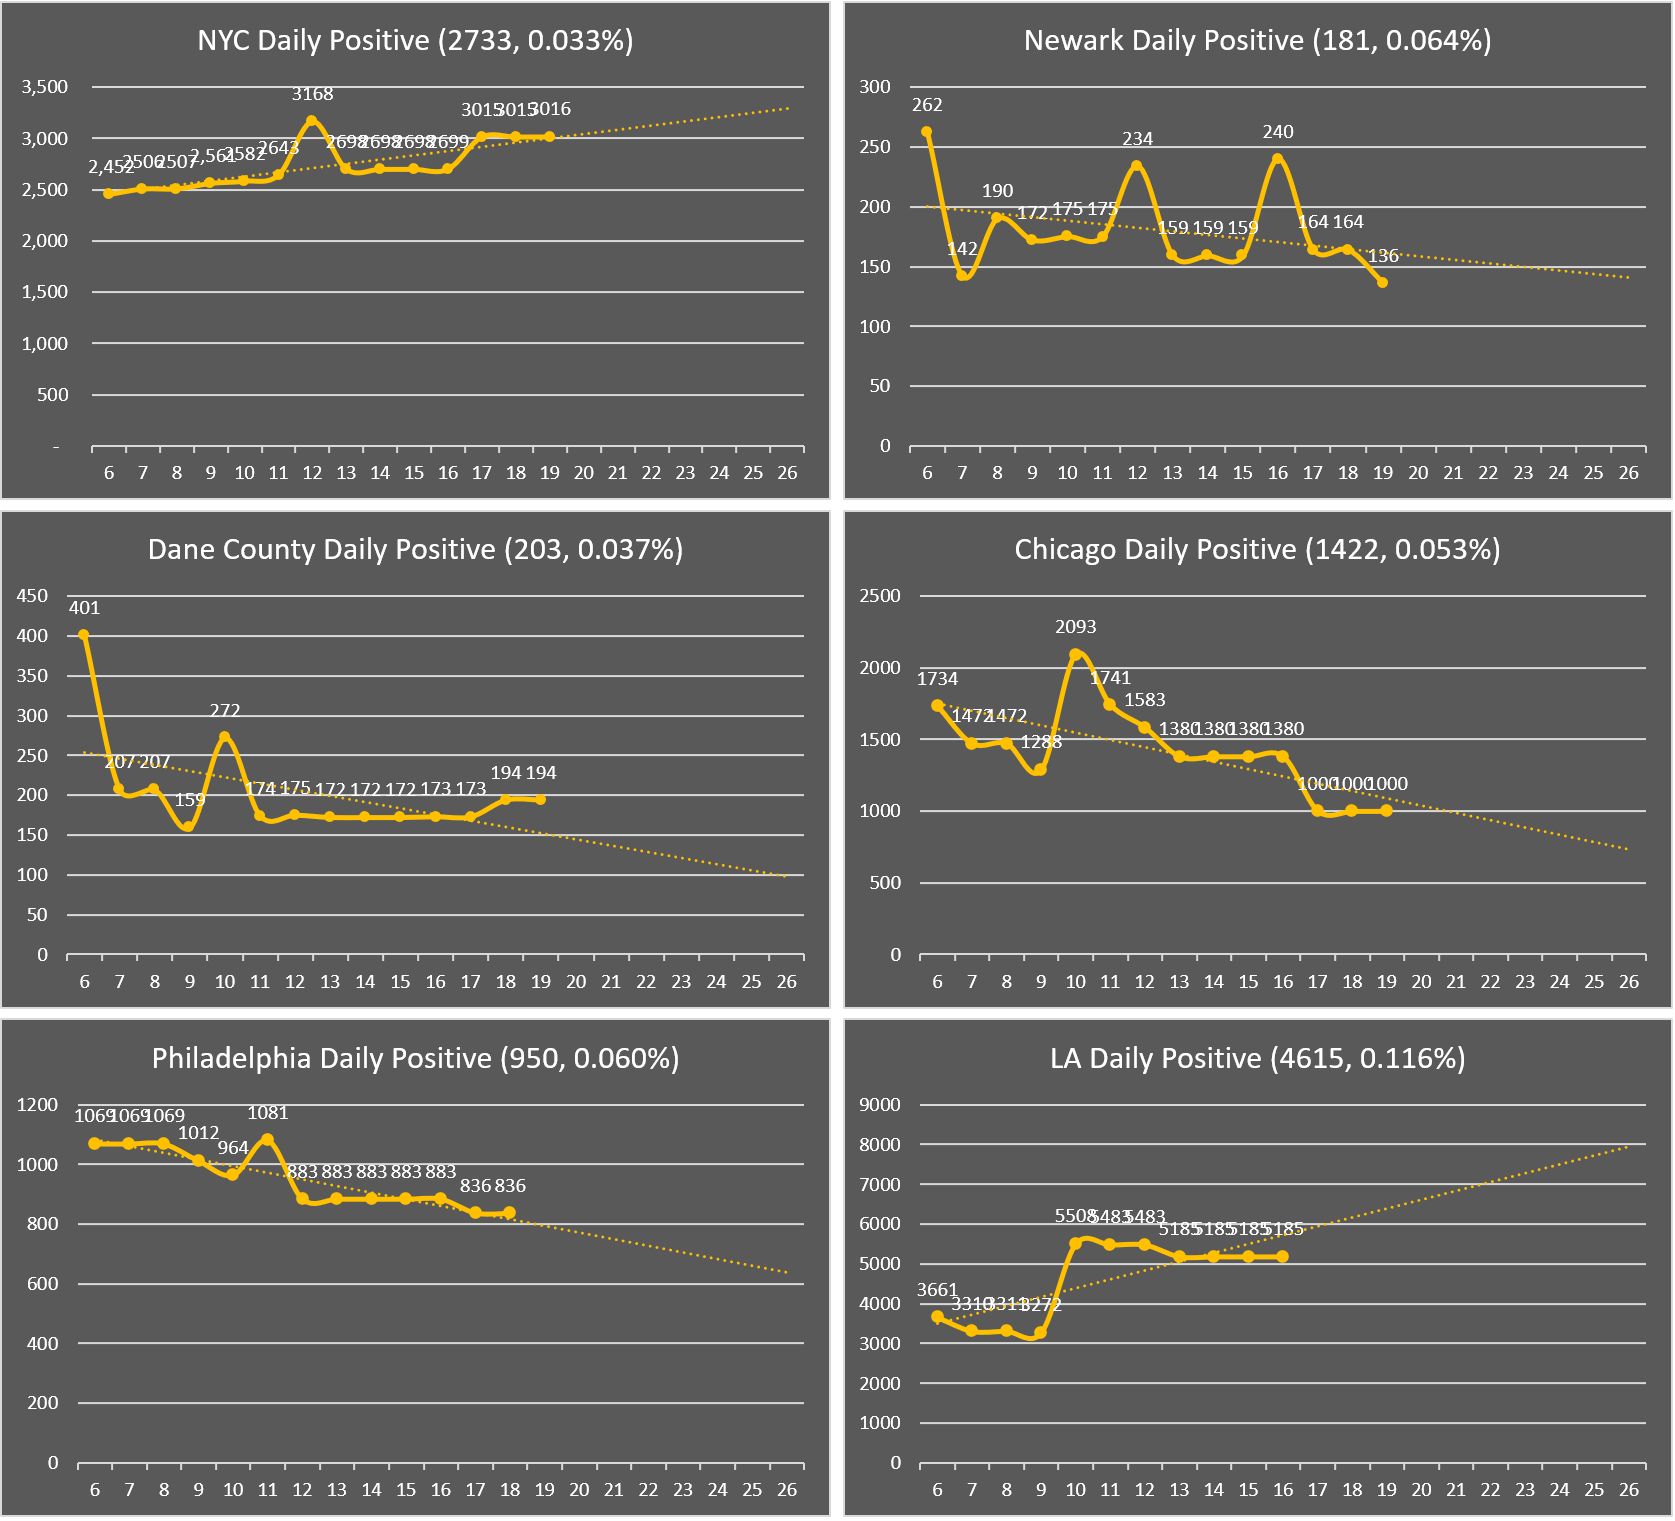
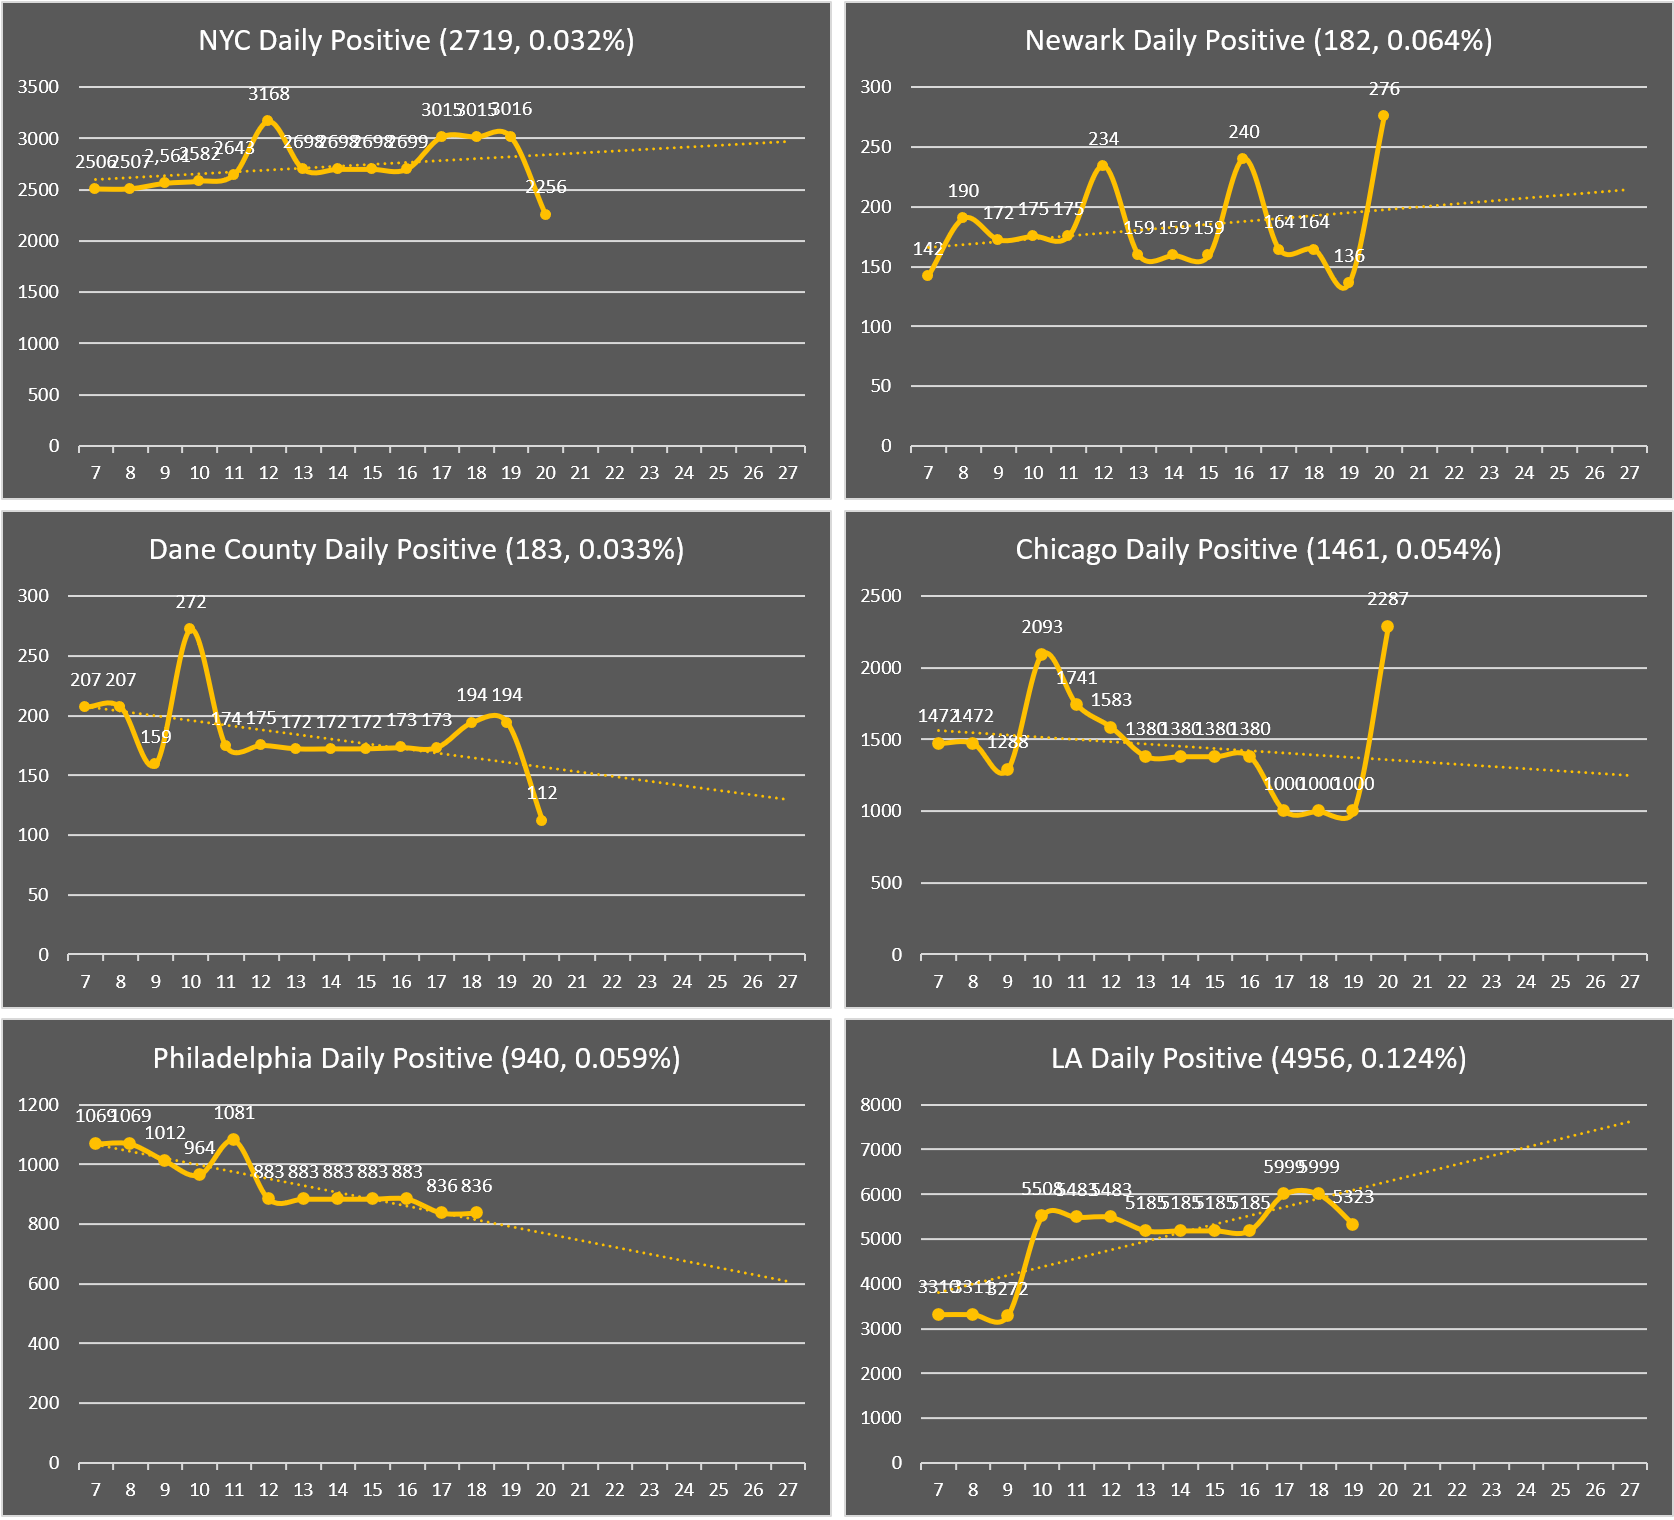
update 12/20 status

diff --git a/index.html b/index.html
@@ -19,7 +19,7 @@
 
 <body class="container-fluid">
 	<h1> CoronaV for Friends</h1>
-	<h2> Data updated at Dec 19 2020 EST 17:30</h2>
+	<h2> Data updated at Dec 20 2020 EST 20:20</h2>
 	<hr>
 	<main>
 		<div class="row">
